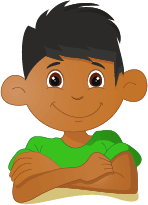
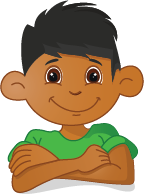
removed ribbon from intro modal, #746

diff --git a/app_modules/content/content.vocabulary.intro.view.html b/app_modules/content/content.vocabulary.intro.view.html
@@ -1,11 +1,34 @@
+<style type="text/css">
+    .intro-title-container{
+    min-height: 60px;
+    padding: 15px;
+    padding-top: 20px;
+    font-size: 1.4em;
+    width: 80%;
+    margin-left: auto;
+    margin-right: auto;
+    background: #CC202E;
+    box-shadow: -5px -5px #5f1b22 inset;
+    border-radius: 15px;
+    color: #FFF;
+    /* letter-spacing: 1px; */
+    line-height: 1;
+    /* bottom: -20px; */
+    position: relative;
+    top: -20px;
+    z-index: 1;
+    }
+</style>
 <div>
 <ion-modal-view style="height:100%;background-image: url(img/assets/transparent_star.png);
         background-size: 33%;background-color:{{vocabIntroCtrl.vocab_data.objects[0].node.type.background_color}}"  >
     <div style="height:100%;" class="vertical-center" style="">
         <div style="text-align: center;position: relative;width: 100%;">
-            <img height="180" ng-src="img/assets_svg/{{userGender=='M'? 'boy' : 'girl'}}-ribbon.svg">
+            <img style="position: relative; z-index: 2" height="120" ng-src="img/assets/upperbody-{{userGender=='M'? 'boy' : 'girl'}}.png">
+            <div class="intro-title-container">{{ vocabIntroCtrl.vocab_data.node.title}}</div>
+            <!-- <img height="180" ng-src="img/assets_svg/{{userGender=='M'? 'boy' : 'girl'}}-ribbon.svg"> -->
             <!-- {{lessonutils.getGender()}} -->
-            <h5 style="position: absolute;top: 105px;width: 100%;" class="margin-0 padding-y-10 padding-x-20 text-center color-white font-md">{{ vocabIntroCtrl.vocab_data.node.title}}</h5>
+            <!-- <h5 style="position: absolute;top: 105px;width: 100%;" class="margin-0 padding-y-10 padding-x-20 text-center color-white font-md">{{ vocabIntroCtrl.vocab_data.node.title}}</h5> -->
             <!-- <h5 style="position: absolute;top: 105px;width: 100%;" class="margin-0 padding-y-10 padding-x-20 text-center color-white font-md">{{userGender}}</h5> -->
         </div>
     </div>

diff --git a/app_modules/content/content.modal-ribbon.view.html b/app_modules/content/content.modal-ribbon.view.html
@@ -1,9 +1,34 @@
+<style type="text/css">
+	.intro-title-container{
+    min-height: 60px;
+    padding: 15px;
+    padding-top: 20px;
+    font-size: 1.4em;
+    width: 80%;
+    margin-left: auto;
+    margin-right: auto;
+    background: #CC202E;
+    box-shadow: -5px -5px #5f1b22 inset;
+    border-radius: 15px;
+    color: #FFF;
+    /* letter-spacing: 1px; */
+    line-height: 1;
+    /* bottom: -20px; */
+    position: relative;
+    top: -20px;
+    z-index: 1;
+	}
+</style>
 <ion-modal-view style="height:100%;"  class="modal-blue-stars" >
     <div style="height:100%;" class="vertical-center">
         <div style="text-align: center;position: relative;width: 100%;">
-            <img height="180" ng-src="img/assets_svg/{{userGender=='M'? 'boy' : 'girl'}}-ribbon.svg">
+
+        		<img style="position: relative; z-index: 2" height="120" ng-src="img/assets/upperbody-{{userGender=='M'? 'boy' : 'girl'}}.png">
+            <div class="intro-title-container">{{selectedNode.node.title}}</div>
+
+            <!-- <img height="180" ng-src="img/assets_svg/{{userGender=='M'? 'boy' : 'girl'}}-ribbon.svg"> -->
             <!-- {{lessonutils.getGender()}} -->
-            <h5 style="position: absolute;top: 105px;width: 100%;" class="margin-0 padding-y-10 padding-x-20 text-center color-white font-md">{{selectedNode.node.title}}</h5>
+            <!-- <h5 style="position: absolute;top: 105px;width: 100%;" class="margin-0 padding-y-10 padding-x-20 text-center color-white font-md">{{selectedNode.node.title}}</h5> -->
             <!-- <h5 style="position: absolute;top: 105px;width: 100%;" class="margin-0 padding-y-10 padding-x-20 text-center color-white font-md">{{userGender}}</h5> -->
         </div>
     </div>

diff --git a/app_modules/quiz/quiz.start.view.html b/app_modules/quiz/quiz.start.view.html
@@ -1,9 +1,31 @@
+<style type="text/css">
+	.intro-title-container{
+    min-height: 60px;
+    padding: 15px;
+    padding-top: 20px;
+    font-size: 1.4em;
+    width: 80%;
+    margin-left: auto;
+    margin-right: auto;
+    background: #CC202E;
+    box-shadow: -5px -5px #5f1b22 inset;
+    border-radius: 15px;
+    color: #FFF;
+    /* letter-spacing: 1px; */
+    line-height: 1;
+    /* bottom: -20px; */
+    position: relative;
+    top: -20px;
+    z-index: 1;
+	}
+</style>
 <ion-modal-view style="height:100%;"  class="modal-blue-stars" >
     <div style="height:100%;" class="vertical-center">
         <div style="text-align: center;position: relative;width: 100%;">
-            <img height="180" ng-src="img/assets_svg/{{userGender=='M'? 'boy' : 'girl'}}-ribbon.svg">
+            <img style="position: relative; z-index: 2" height="120" ng-src="img/assets/upperbody-{{userGender=='M'? 'boy' : 'girl'}}.png">
+            <div class="intro-title-container">{{ribbonText}}</div>
             <!-- {{lessonutils.getGender()}} -->
-            <h5 style="position: absolute;top: 105px;width: 100%;" class="margin-0 padding-y-10 padding-x-20 text-center color-white font-md">{{ribbonText}}</h5>
+            <!-- <h5 style="position: absolute;top: 105px;width: 100%;" class="margin-0 padding-y-10 padding-x-20 text-center color-white font-md">{{ribbonText}}</h5> -->
             <!-- <h5 style="position: absolute;top: 105px;width: 100%;" class="margin-0 padding-y-10 padding-x-20 text-center color-white font-md">{{userGender}}</h5> -->
         </div>
     </div>
